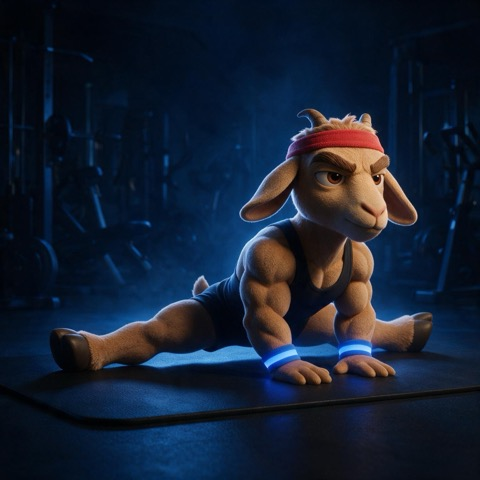
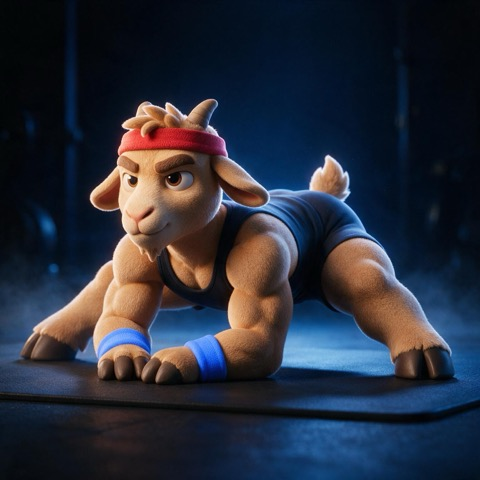
REV 134: auditoria de las 427 imagenes, nodos para rehacer las 47 con problema en el space del personaje, y la regla de donde se generan escrita en DESIGN-STANDARDS y CLAUDE.md

diff --git a/site/sw.js b/site/sw.js
@@ -1,5 +1,5 @@
 /* Coach Cabritos · offline para el gimnasio sin señal */
-const CACHE = 'cabritos-v77';
+const CACHE = 'cabritos-v78';
 const CORE = ['./', 'index.html', 'manifest.webmanifest'];
 /* Las imagenes de la interfaz salieron del HTML a archivos sueltos (bajo de 4,3 MB a
    1 MB). Como el gimnasio puede no tener señal, se precargan en segundo plano al

diff --git a/sw.js b/sw.js
@@ -1,5 +1,5 @@
 /* Coach Cabritos · offline para el gimnasio sin señal */
-const CACHE = 'cabritos-v77';
+const CACHE = 'cabritos-v78';
 const CORE = ['./', 'index.html', 'manifest.webmanifest'];
 /* Las imagenes de la interfaz salieron del HTML a archivos sueltos (bajo de 4,3 MB a
    1 MB). Como el gimnasio puede no tener señal, se precargan en segundo plano al

diff --git a/coach-afc-v2.html b/coach-afc-v2.html
@@ -1357,7 +1357,7 @@ b,strong{font-weight:600}
 
 <script>
 "use strict";
-const APPREV='REV 133';
+const APPREV='REV 134';
 const REC={
   pollo:"assets/cab/pollo.png",
   res:"assets/cab/res.png",

diff --git a/site/index.html b/site/index.html
@@ -1357,7 +1357,7 @@ b,strong{font-weight:600}
 
 <script>
 "use strict";
-const APPREV='REV 133';
+const APPREV='REV 134';
 const REC={
   pollo:"assets/cab/pollo.png",
   res:"assets/cab/res.png",

diff --git a/docs/AUDITORIA-IMAGENES.md b/docs/AUDITORIA-IMAGENES.md
@@ -1,0 +1,78 @@
+# Auditoría de imágenes · 09/08/2026
+
+Revisión una por una de las **327 fotos de ejercicios** (`assets/ej/`) y las
+**100 imágenes de interfaz** (`assets/cab/`). Resultado: **47 fotos a rehacer**.
+Los nodos para rehacerlas ya existen en Magnific (ver abajo dónde).
+
+## Dónde se rehacen (regla, no sugerencia)
+
+Space **"Character Model Sheet Development"**, pestaña **`Andrés`** o **`Cami`**.
+Ahí está la referencia del personaje conectada al puerto `reference` de cada nodo
+`image-generator`; sin esa conexión sale otro personaje. Nunca en otro space.
+Regla completa en [DESIGN-STANDARDS.md](DESIGN-STANDARDS.md) §5.
+
+Nodos creados el 09/08 en la pestaña **Andrés**:
+
+| Prefijo | Cuántos | Qué son |
+|---|---|---|
+| `MOV — <id>` | 14 | la rutina de movilidad completa |
+| `EJ v2 — <id>` | 29 | ejercicios que salieron con la mascota vieja |
+| `EJ pose — <id>` | 12 | fotos cuya pose no era el ejercicio |
+
+Y en la pestaña **Cami**: `CAMI pose — c_lunge`.
+
+## 1. Mascota de la primera generación (29)
+
+Salieron con **la cabrita crema/blanca sobre brillo azul**, varias con **collar y
+campana** (hoy prohibido). Son justo los ejercicios de las rutinas diarias de Andrés,
+que hoy es el cabrito **tan/moreno**: su plan entero se ve con la mascota equivocada.
+
+`calfse, calfst, curl, dip, facep, fly, hack, hammer, hip, incdb, incmach, latcab,
+latcl, latdb, latop, lcurl, lext, lpress, lunge, ohpdb, preach, pullup, rdl, revfly,
+row, rowuni, shpress, skull, tricab`
+
+## 2. La pose no es el ejercicio (13)
+
+| Foto | Qué muestra hoy |
+|---|---|
+| `floorpress` | de pie con la barra, debería estar acostado |
+| `revfly_mach` | parada sin hacer nada |
+| `tbar_row` | sostiene una mancuerna de pie |
+| `row_seat_wide` | de pie, debería estar sentada |
+| `vup` | una patada de pie |
+| `muscleup` | hala una barra en el rack |
+| `powersnatch` | peso muerto, nada por encima de la cabeza |
+| `kneeraise_flat` | sentada con una barra |
+| `squat_db` | parada, la mancuerna en el piso |
+| `squat_bw` | **dos cabras duplicadas** en la misma escena |
+| `jumpshrug` | salta con la barra en la espalda |
+| `c_lunge` | camina con mancuernas sin flexionar (Cami) |
+| `front_lever_tuck` | ver punto 3 |
+
+## 3. Texto pegado en la imagen (2)
+
+- `front_lever_tuck`: dice "FRONT LEVER HOLD".
+- `shpress`: dice "CABRITA STRENGTH" en la base de la máquina, **y** tiene collar con
+  campana, **y** es la mascota vieja. Triple problema.
+
+## 4. Movilidad (5) · YA CORREGIDAS
+
+`mov_sentadilla` (estaba de pie), `mov_tobillo` (sin pared), `mov_rana` (tumbada de
+lado), `mov_bisagra` (erguida) y `mov_pared` (sin pared). Regeneradas e instaladas
+el 09/08. Los nodos `MOV — …` quedan con el prompt afinado por si hay que repetirlas.
+
+## Revisado y descartado (no son problema)
+
+- El **"VS"** del hero de Retos y el **"CARGO"** del sticker del camión son texto
+  intencional del diseño.
+- `trapbar_dead` está bien: la barra sí es hexagonal.
+- Iconos (`fic_*`, `ic*`), comidas, trofeos y stickers: coherentes con el sistema.
+- Ninguna imagen de interfaz tiene cara humana ni collar.
+
+## Cómo se hizo
+
+Hojas de contactos etiquetadas (25 fotos por hoja) revisadas celda por celda, con los
+originales abiertos en grande para los casos límite. Los criterios de marcado fueron:
+texto pegado, personaje que no es la cabra, pose que no corresponde al nombre del
+archivo, versión vieja del personaje (crema con azul, o collar/campana) y estilo ajeno
+al sistema.

diff --git a/docs/DESIGN-STANDARDS.md b/docs/DESIGN-STANDARDS.md
@@ -129,6 +129,32 @@ nueva se genera con el mismo prompt base para mantener la serie.
 Reglas comunes: overlay oscuro garantiza contraste AA del texto; ancho 900 px, JPEG q≈52-55,
 embebidas como data-URI (la app es un único HTML offline).
 
+### Dónde se generan las imágenes (REGLA DURA, 09/08)
+
+**Todo nodo de imagen se crea en el space "Character Model Sheet Development" de
+Magnific, en la pestaña del personaje que corresponda: `Andrés` o `Cami`.** Ahí vive
+la referencia del personaje conectada al puerto `reference` de cada generador, que es
+lo que mantiene la cara y el color consistentes entre cientos de fotos.
+
+- Nunca se crean nodos sueltos en otro space ni en la Página 1: se pierde la
+  referencia y sale otro personaje (pasó y costó una tanda entera).
+- Cada nodo es de tipo `image-generator`, 1:1, se llama `EJ — <id>` (ejercicio),
+  `MOV — <id>` (movilidad) o `APP — <escena>`, y su prompt es AUTÓNOMO: personaje
+  completo + acción + estilo, aunque se repita entre nodos.
+- Los dos personajes vigentes, y no se mezclan:
+  - **Andrés-Cabrito**: pelaje café/tan (moreno), banda roja, muñequeras azules
+    (#5C8DFF), camiseta oscura, brillo azul.
+  - **Cami-Cabrita**: pelaje crema-blanco, moño y muñequeras amarillas (#FFC94D),
+    brillo dorado.
+- Prohibiciones que van SIEMPRE en el prompt: cero texto en la imagen (ni rótulos en
+  máquinas o discos) y **sin collar ni campana** en el cuello.
+- La cabrita crema con brillo AZUL es la versión de la primera generación: si aparece,
+  la foto se rehace. Los ejercicios de Andrés van con el cabrito tan.
+- Antes de aceptar una foto: que la POSE sea el ejercicio (no la mascota parada junto
+  al equipo), que se vea el punto de apoyo (colchoneta, pared, barra, palo) y que no
+  haya dos mascotas en la misma escena.
+- Salida a la app: JPEG 480×480 en `assets/ej/` **y** copia en `site/assets/ej/`.
+
 ### Las cabritas (constante `CAB`)
 
 Mascota 3D de la casa: cabrita de pelaje crema, cuernos pequeños, gorra granate o gafas
@@ -194,6 +220,7 @@ leyendo, con la Biblia, con idea, tomándose una foto, dormida, con el reloj.
 3. ¿Cero esquinas rectas visibles (excepto la foto a sangre dentro de su tarjeta)?
 4. ¿Al menos un elemento "wow" por pantalla principal (anillo, tarjeta-foto, gráfica glow)?
 5. ¿Imágenes dentro del sistema (set navy generado para equipo; nunca personas generadas), siempre con overlay oscuro, y la ilustración corresponde al texto?
+5b. Si hay imagen nueva de mascota: ¿se generó en el space "Character Model Sheet Development", en la pestaña del personaje (Andrés / Cami) y con la referencia conectada? ¿La pose ES el ejercicio, con su punto de apoyo visible, UNA sola mascota, sin texto pegado y sin collar ni campana?
 6. ¿Nav y topbar en vidrio, tab activo en acento?
 7. ¿Se ve como los referentes y NO "hecho por IA" (sin emojis, sin morado genérico, sin glassmorphism gratuito en todo)?
 

diff --git a/.claude/agents/cabricoach.md b/.claude/agents/cabricoach.md
@@ -96,6 +96,25 @@ Reglas duras:
 
 Ver `docs/DESIGN-STANDARDS.md` para color, componentes y el resto del lenguaje visual.
 
+## Imágenes nuevas: SIEMPRE en el space del personaje
+
+Las fotos de ejercicios y las ilustraciones se generan en Magnific, en el space
+**"Character Model Sheet Development"**, en la pestaña **`Andrés`** o **`Cami`** según
+de quién sea la imagen. Ahí está la referencia del personaje conectada al puerto
+`reference` de cada nodo `image-generator`: sin esa conexión sale otro personaje.
+Nunca crear los nodos en otro space ni en la Página 1 (ya pasó, hubo que rehacer).
+
+Nombre del nodo: `EJ — <id>`, `MOV — <id>` o `APP — <escena>`; formato 1:1; el prompt
+va completo y autónomo (personaje + acción + estilo). En el prompt SIEMPRE: sin texto
+de ningún tipo en la imagen y **sin collar ni campana**. Andrés es el cabrito
+café/tan con muñequeras azules; Cami es la cabrita crema con amarillo y brillo dorado
+(la crema con brillo AZUL es la versión vieja: esa foto se rehace).
+
+Antes de aceptar una foto: la pose debe SER el ejercicio, con su punto de apoyo
+visible, una sola mascota y sin letras. Sale como JPEG 480×480 a `assets/ej/` y se
+copia a `site/assets/ej/`. **Generar cuesta créditos: no lo hagas sin que Andy lo
+pida explícitamente.** El detalle completo está en `docs/DESIGN-STANDARDS.md` §5.
+
 ## Documentación de fondo
 
 - `docs/ARQUITECTURA.md`: cómo funciona todo por dentro (estado, render y

diff --git a/docs/CONTEXTO.md b/docs/CONTEXTO.md
@@ -22,7 +22,8 @@ por peso desde REV 111 (1,8 g/kg de proteína, promedio semanal de pesajes): el
 | [ARQUITECTURA.md](ARQUITECTURA.md) | cómo funciona por dentro, con los porqués |
 | [PRUEBAS.md](PRUEBAS.md) | receta completa de verificación (estático + CDP) |
 | [MAPA.md](MAPA.md) | código corto por zona de pantalla (I4b, C3d...) para señalar sin ambigüedad |
-| [DESIGN-STANDARDS.md](DESIGN-STANDARDS.md) | estándar visual REV 4.0 "Night Gym" (lo escribió Andy; manda) |
+| [DESIGN-STANDARDS.md](DESIGN-STANDARDS.md) | estándar visual REV 4.0 "Night Gym" (lo escribió Andy; manda). §5 tiene la regla de dónde se generan las imágenes |
+| [AUDITORIA-IMAGENES.md](AUDITORIA-IMAGENES.md) | qué fotos hay que rehacer y por qué (09/08); los nodos ya están en el space del personaje |
 | [PROYECTO-COACH-AFC.md](PROYECTO-COACH-AFC.md) | especificación original (perfiles, plan, rutinas). Histórico: los macros fijos que menciona ya son dinámicos |
 | [INDICACIONES.md](INDICACIONES.md) | registro histórico de pedidos de la sesión del 30/07 |
 | `../CLAUDE.md` | arranque para Claude Code (estructura, trampas, publicación) |

diff --git a/CLAUDE.md b/CLAUDE.md
@@ -81,6 +81,16 @@ Lo que **no** viaja por git y hay que crear en cada máquina: `~/.config/cabrito
 (credenciales) y la programación del coach diario
 (`zsh herramientas/coach-diario/instalar.sh`).
 
+## Imágenes nuevas (Magnific)
+
+Los nodos de imagen se crean **siempre** en el space "Character Model Sheet
+Development", en la pestaña **Andrés** o **Cami** según el personaje: ahí está la
+referencia conectada que mantiene la mascota consistente. Nunca en otro space ni en la
+Página 1. Andrés = cabrito café/tan con muñequeras azules; Cami = cabrita crema con
+amarillo y brillo dorado. En el prompt siempre: sin texto en la imagen y sin collar ni
+campana. Generar cuesta créditos: solo cuando Andy lo pida.
+Regla completa en [docs/DESIGN-STANDARDS.md](docs/DESIGN-STANDARDS.md) §5.
+
 ## Señalar dónde está algo
 
 `docs/MAPA.md` da un código corto a cada caja de la app (I4b, C3d, P2d…). Úsalos para
